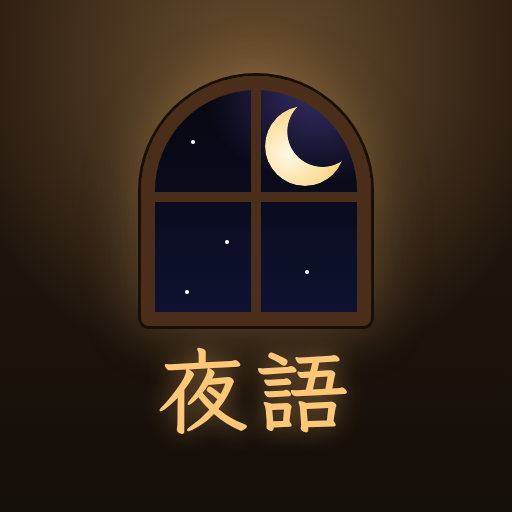
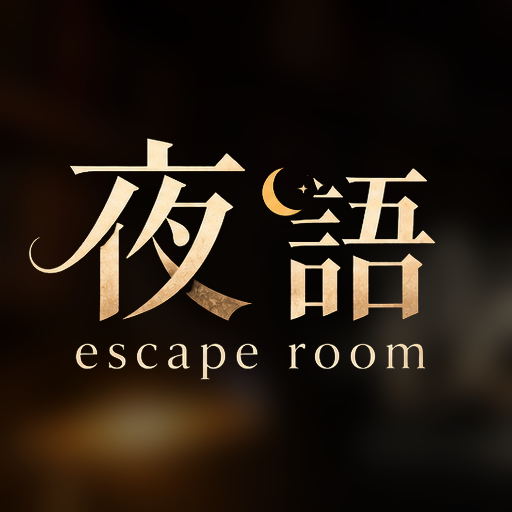
App 圖示換成《夜語 escape room》標誌
用製作人提供的主視覺：取出「夜語 escape room」金色字，放在同一張圖的模糊書櫃背景上（下面那行小字在圖示尺寸看不清，所以不放）。
icon-192/512、apple-touch-icon、maskable（字縮小留安全邊）、favicon（只放「夜語」）。圖示版本號 v3、Service Worker 快取 v7。

Claude-Session: https://claude.ai/code/session_014Y2q75BmsdSF3ASsUfmXLW

diff --git a/sw.js b/sw.js
@@ -1,7 +1,7 @@
 // 夜語大廳：讓大廳可以「加到主畫面」當成 App 開啟
 // 策略：大廳頁面一律先拿網路上的最新版（網路不通時才用上次存的），圖示等靜態檔用快取。
 // 只處理大廳自己的檔案；Supabase、遊戲、字型等其他網站的請求一律不經過這裡。
-const CACHE = 'yeyu-lobby-v6';   // v6：新的 App 圖示、分享預覽圖
+const CACHE = 'yeyu-lobby-v7';   // v7：App 圖示換成《夜語 escape room》標誌
 const SHELL = ['./', './index.html', './manifest.webmanifest', './icons/icon-192.png', './icons/icon-512.png', './icons/apple-touch-icon.png'];
 
 self.addEventListener('install', (e) => {

diff --git a/index.html b/index.html
@@ -19,8 +19,8 @@
   <!-- 加到主畫面（App 模式） -->
   <link rel="manifest" href="manifest.webmanifest">
   <meta name="theme-color" content="#140E09">
-  <link rel="icon" type="image/png" sizes="32x32" href="icons/favicon-32.png?v=2">
-  <link rel="apple-touch-icon" href="icons/apple-touch-icon.png?v=2">
+  <link rel="icon" type="image/png" sizes="32x32" href="icons/favicon-32.png?v=3">
+  <link rel="apple-touch-icon" href="icons/apple-touch-icon.png?v=3">
   <meta name="apple-mobile-web-app-capable" content="yes">
   <meta name="mobile-web-app-capable" content="yes">
   <meta name="apple-mobile-web-app-title" content="夜語escape room">
